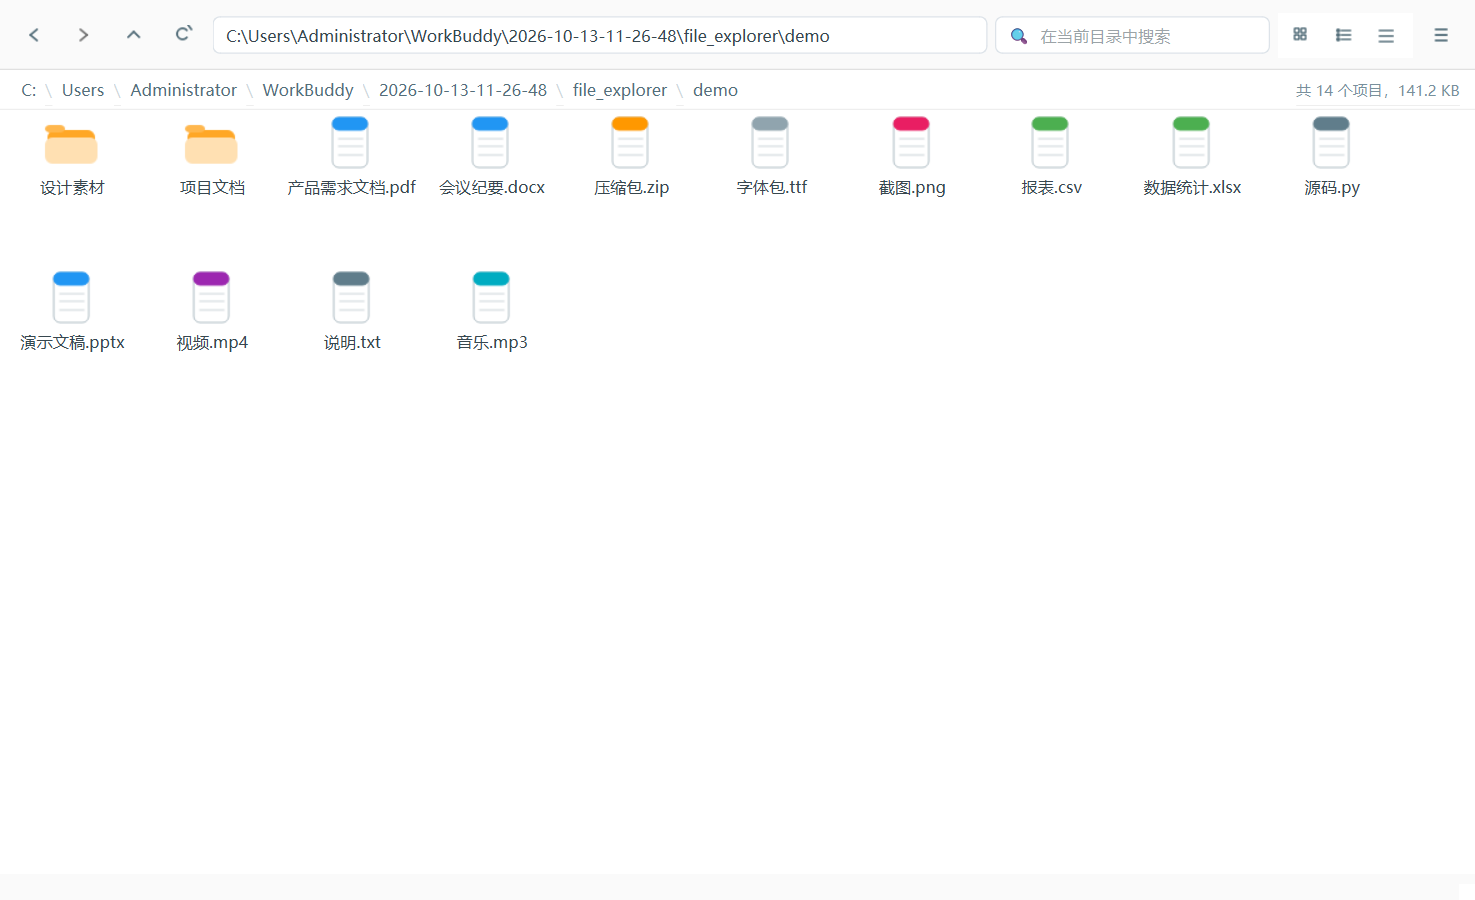
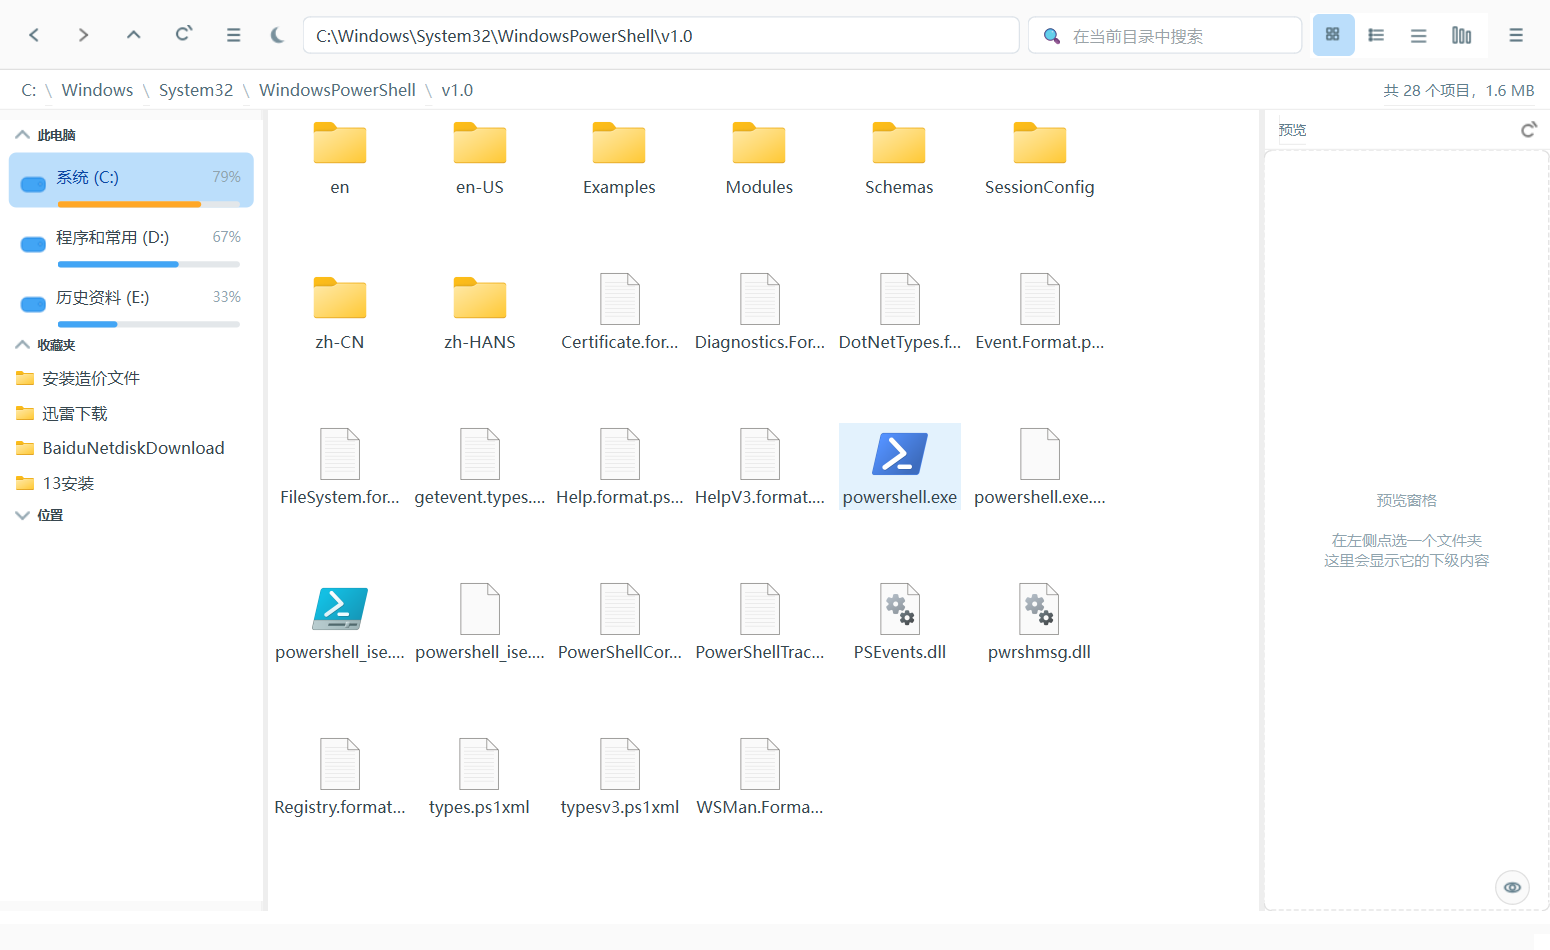
feat: 文件和文件夹图标改用系统图标
原来 icon_for() 是按扩展名自绘的彩色纸张图形（QPainter 画白纸+彩色标签条），
和资源管理器里的观感差很远。改成走 QFileIconProvider，Windows 下就是 Shell 的
SHGetFileInfo，拿到的是系统真实图标：终端程序是它的蓝色图标、dll 是齿轮、
各类文档是关联程序图标、文件夹是系统黄色文件夹。

实现要点：
- 三级缓存：文件夹一份；普通文件按扩展名；exe/lnk/ico/msi/url 按完整路径
  （这类每个文件图标都不同，只能逐个取）
- 路径不存在时用 'x' + 扩展名 构造 QFileInfo，仍能按类型要到默认图标
- Shell 取不到（无 GUI 环境、权限不足、未知类型）时回退到原来的自绘图标兜底
- 按路径缓存的条目会累积，超过 600 条整体清一次
- 保留 _make_pixmap 作为 fallback，自绘逻辑没有删

实测：System32（6168 项）图标视图 0.87s，二次刷新 0.27s；
offscreen 测试环境下 Qt 不走 Shell，会退回内置图标，不影响断言。

diff --git a/core.py b/core.py
@@ -108,19 +108,71 @@ def _make_pixmap(kind: str, is_dir: bool, size: int = 48) -> QPixmap:
 
 
 _icon_cache: dict[tuple, QIcon] = {}
+_icon_provider = None
+
+
+def _get_icon_provider():
+    """
+    懒加载系统图标提供者。
+
+    QFileIconProvider 在 Windows 上走 Shell 的 SHGetFileInfo，
+    拿到的就是资源管理器里显示的那套图标。没有 GUI 环境时返回 None，
+    由调用方回退到自绘图标。
+    """
+    global _icon_provider
+    if _icon_provider is None:
+        try:
+            from PySide6.QtWidgets import QFileIconProvider
+            _icon_provider = QFileIconProvider()
+        except Exception:
+            _icon_provider = False      # 记住失败，不要每次都重试
+    return _icon_provider or None
 
 
 def icon_for(path: str, is_dir: bool, size: int = 48) -> QIcon:
-    """带缓存的图标获取，列表滚动时不会重复绘制。"""
+    """
+    取系统图标，显示效果和 Windows 资源管理器一致。
+
+    缓存分三档，避免每帧都去问 Shell：
+      - 文件夹：系统只有一个样式，缓存一份
+      - 普通文件：按扩展名缓存，同类型图标相同
+      - exe / lnk / ico：每个程序图标都不一样，只能按完整路径缓存
+    """
+    ext = "" if is_dir else os.path.splitext(path)[1].lower()
     if is_dir:
-        key = ("dir", size)
+        key = ("dir",)
+    elif ext in (".exe", ".lnk", ".ico", ".msi", ".url") or not ext:
+        key = ("path", path.lower())
     else:
-        ext = os.path.splitext(path)[1].lower()
-        key = (EXT_COLOR_MAP.get(ext, "其他"), size)
-    if key not in _icon_cache:
-        _icon_cache[key] = QIcon(_make_pixmap(key[0] if not is_dir else "dir",
-                                               is_dir, size))
-    return _icon_cache[key]
+        key = ("ext", ext)
+
+    hit = _icon_cache.get(key)
+    if hit is not None:
+        return hit
+
+    icon = None
+    prov = _get_icon_provider()
+    if prov is not None:
+        try:
+            from PySide6.QtCore import QFileInfo
+            # 路径不存在时（虚拟条目、刚删掉的文件）按扩展名要一个默认图标
+            target = path if os.path.exists(path) else ("x" + ext if ext else path)
+            icon = prov.icon(QFileInfo(target))
+            if icon is None or icon.isNull():
+                icon = None
+        except Exception:
+            icon = None
+
+    if icon is None:
+        # 回退：Shell 拿不到（无 GUI、权限、未知类型）时用自绘图标兜底
+        kind = "dir" if is_dir else EXT_COLOR_MAP.get(ext, "其他")
+        icon = QIcon(_make_pixmap(kind, is_dir, size))
+
+    # 按路径缓存的那批（exe）会越积越多，超过上限整体清一次
+    if len(_icon_cache) > 600:
+        _icon_cache.clear()
+    _icon_cache[key] = icon
+    return icon
 
 
 def is_hidden(path: str, name: str) -> bool:

diff --git a/main_window.py b/main_window.py
@@ -34,7 +34,7 @@ from core import (DirScan, DriveInfo, PreviewInfo, Worker, drive_icon_pixmap,
                   remove_favorite, toggle_favorite)
 
 APP_NAME = "Qt 资源管理器"
-APP_VERSION = "1.5"
+APP_VERSION = "1.6"
 
 # 内部拖拽的标记：带这个格式说明是窗口内自己拖自己，
 # 落到文件夹上应当"移动"，而从别的程序拖进来仍然是"复制"。

diff --git a/README.md b/README.md
@@ -2,7 +2,7 @@
 
 一个用 Qt（PySide6）实现的桌面文件管理器，功能对齐 Windows 资源管理器。
 
-**当前版本：1.5**
+**当前版本：1.6**
 
 ![界面](shot_icons.png)
 
@@ -17,6 +17,15 @@
 ![级联视图（夜间）](shot_cascade_dark.png)
 
 ## 更新日志
+
+### 1.6
+- **图标改用系统图标**。文件和文件夹不再用自绘的彩色纸张图形，改为通过
+  `QFileIconProvider`（Windows 下走 Shell 的 `SHGetFileInfo`）取系统真实图标：
+  终端的蓝色图标、dll 的齿轮、各类文档、黄色文件夹，都和资源管理器一致。
+  - 三级缓存：文件夹一份、普通文件按扩展名、`exe` / `lnk` / `ico` 按完整路径
+    （这类每个文件图标都不同，只能逐个取）
+  - 取不到时（无 GUI 环境、权限不足、未知类型）回退到原来的自绘图标，不会出现空白
+  - 实测 6168 项的 `System32` 渲染 0.87s，二次刷新 0.27s
 
 ### 1.5
 - **重做排序**。此前点表头用的是 Qt 内建排序：它按单元格里的**显示文本**比较
@@ -166,7 +175,7 @@ python run.py
 选中文件夹后，右侧预览窗格显示其下级内容，不用进入就能看到里面有什么：
 
 - **文件夹**：列出下级文件夹与文件名、各自大小，并统计本层与含下级的累计项数/体积
-- 每条前面都有**对应类型的图标**（文件夹、Python、PDF、文档等按扩展名着色），
+- 每条前面都是**系统真实图标**（和资源管理器一致），
   文件大小右对齐
 - **图片**：直接显示缩略图与尺寸信息（jpg/png/gif/bmp/webp/ico）
 - **其它文件**：显示类型、大小、创建与修改时间
